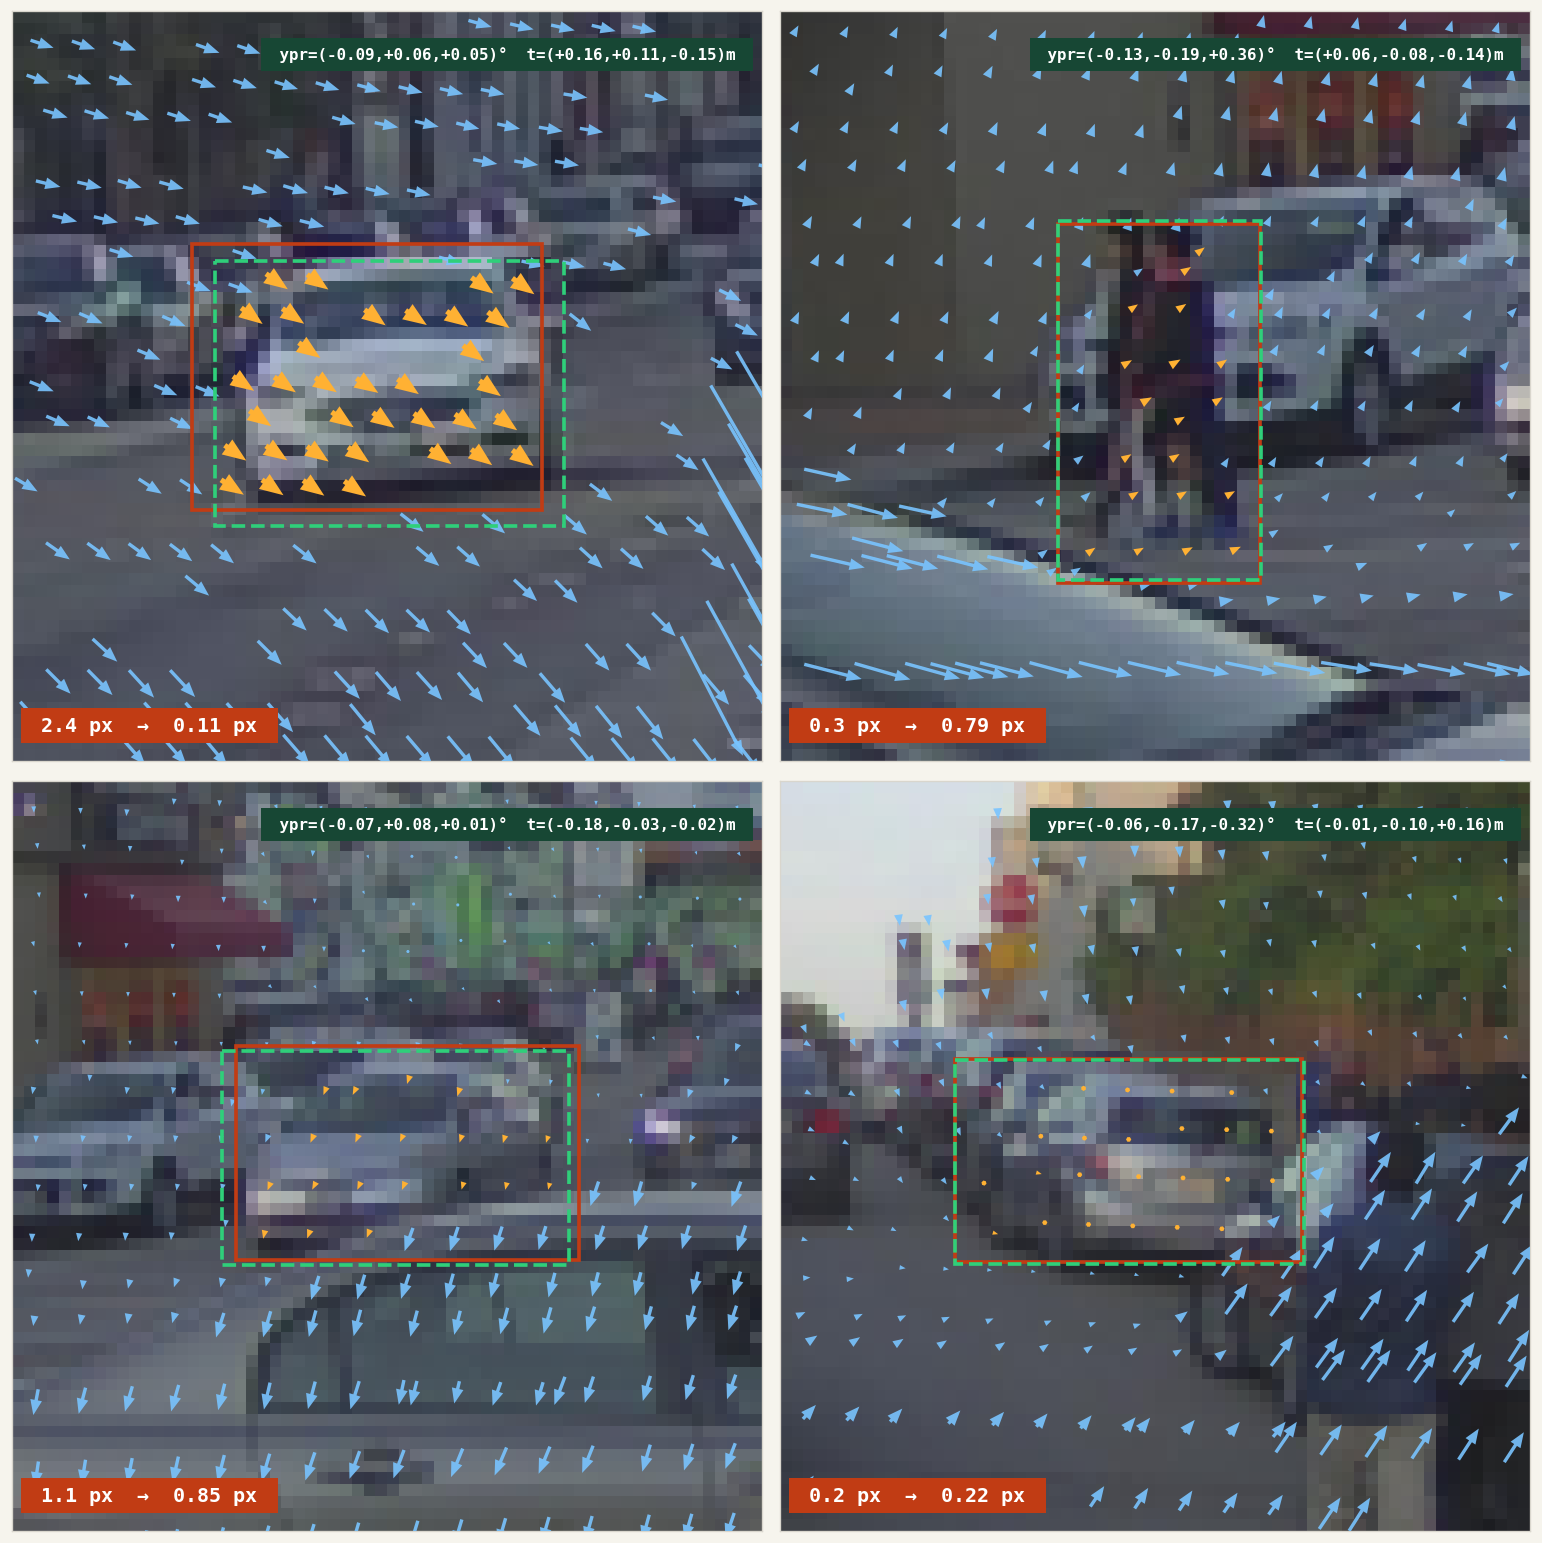
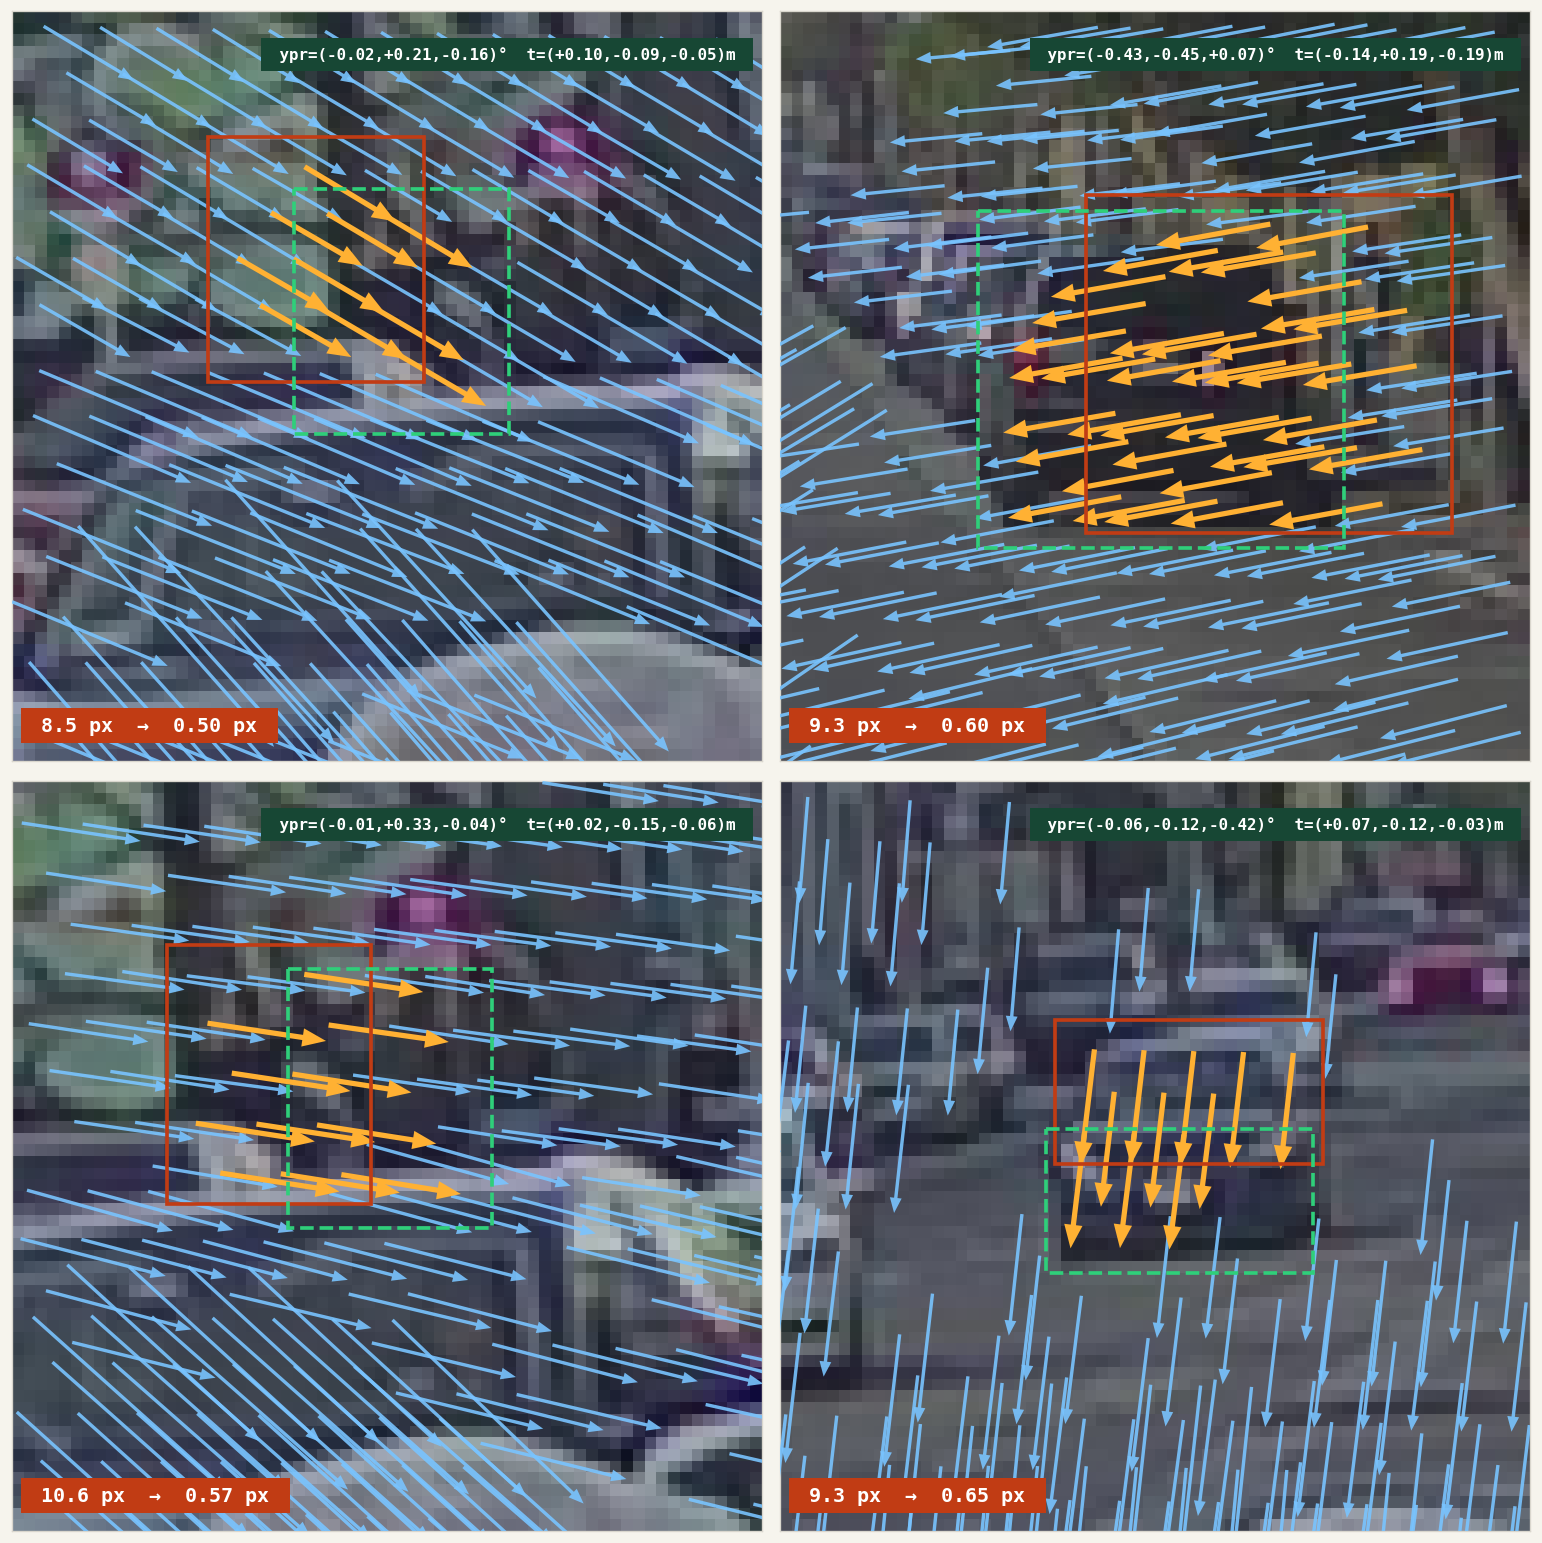
Hero: pick samples with >=8px mean shift so the correction is visible
Previous hero used mean shift >=1 px which looked almost uniform at 64x64.
Now scan requires >=8 px mean shift per sample (up to 4 re-draws per
instance to hit the tail of the 0.5 deg / 0.2 m perturbation distribution).
Final panels show obj_err 8.5/9.3/10.6/9.3 px -> 0.50/0.60/0.57/0.65 px.

diff --git a/render_hero_v2.py b/render_hero_v2.py
@@ -110,11 +110,12 @@ def draw_perturbation(rng):
     return ypr, t
 
 
-def scan_candidates(ds, n_candidates=400, seed=1):
+def scan_candidates(ds, n_candidates=400, seed=1, min_mean_shift=8.0):
     """Find val samples that (a) are well framed, (b) have objects of
-    sensible size, (c) their random __getitem__-style perturbation produces
-    per-point shifts with high coefficient of variation (σ / μ) — meaning
-    the 'not uniform' story is visually obvious."""
+    sensible size, (c) their __getitem__-style perturbation produces a
+    per-point mean shift >= min_mean_shift px so the correction story is
+    unmistakable at a glance. Within those we still favour high CV
+    (σ / μ) so the per-point-variation point also reads."""
     S = 64
     rng = np.random.default_rng(seed)
     idxs = list(range(len(ds))); _r.Random(seed).shuffle(idxs)
@@ -122,25 +123,27 @@ def scan_candidates(ds, n_candidates=400, seed=1):
     for idx in idxs:
         inst = ds.instances[idx]
         if 'obj_pos' not in inst: continue
-        ypr, t = draw_perturbation(rng)
-        out = reproject(inst, ypr, t, S)
-        if out is None: continue
-        is_obj = out['is_obj'].astype(bool)
-        if is_obj.sum() < 10: continue
-        tu = out['uv_gt']; obj = tu[is_obj]
-        w = obj[:,0].max() - obj[:,0].min()
-        h = obj[:,1].max() - obj[:,1].min()
-        cx, cy = obj[:,0].mean(), obj[:,1].mean()
-        if max(w, h) < 0.22*S or max(w, h) > 0.65*S: continue
-        if min(w, h) < 0.10*S: continue
-        if abs(cx - S/2) > 0.22*S or abs(cy - S/2) > 0.22*S: continue
-        # per-point shift magnitude stats
-        shift = out['uv_dist'] - out['uv_gt']
-        mag = np.linalg.norm(shift, axis=1)
-        if mag.mean() < 1.0: continue      # need visible shift
-        cv = float(mag.std() / max(mag.mean(), 1e-6))
-        # prefer high cv = per-point variation is obvious
-        found.append((cv, idx, ypr, t, mag.mean()))
+        # allow several random re-draws per instance so we actually hit
+        # the ≥8 px tail
+        for _k in range(4):
+            ypr, t = draw_perturbation(rng)
+            out = reproject(inst, ypr, t, S)
+            if out is None: continue
+            is_obj = out['is_obj'].astype(bool)
+            if is_obj.sum() < 10: continue
+            tu = out['uv_gt']; obj = tu[is_obj]
+            w = obj[:,0].max() - obj[:,0].min()
+            h = obj[:,1].max() - obj[:,1].min()
+            cx, cy = obj[:,0].mean(), obj[:,1].mean()
+            if max(w, h) < 0.22*S or max(w, h) > 0.65*S: continue
+            if min(w, h) < 0.10*S: continue
+            if abs(cx - S/2) > 0.22*S or abs(cy - S/2) > 0.22*S: continue
+            shift = out['uv_dist'] - out['uv_gt']
+            mag = np.linalg.norm(shift, axis=1)
+            if mag.mean() < min_mean_shift: continue
+            cv = float(mag.std() / max(mag.mean(), 1e-6))
+            found.append((cv, idx, ypr, t, float(mag.mean())))
+            break
         if len(found) >= n_candidates: break
     found.sort(key=lambda x: -x[0])
     return found
